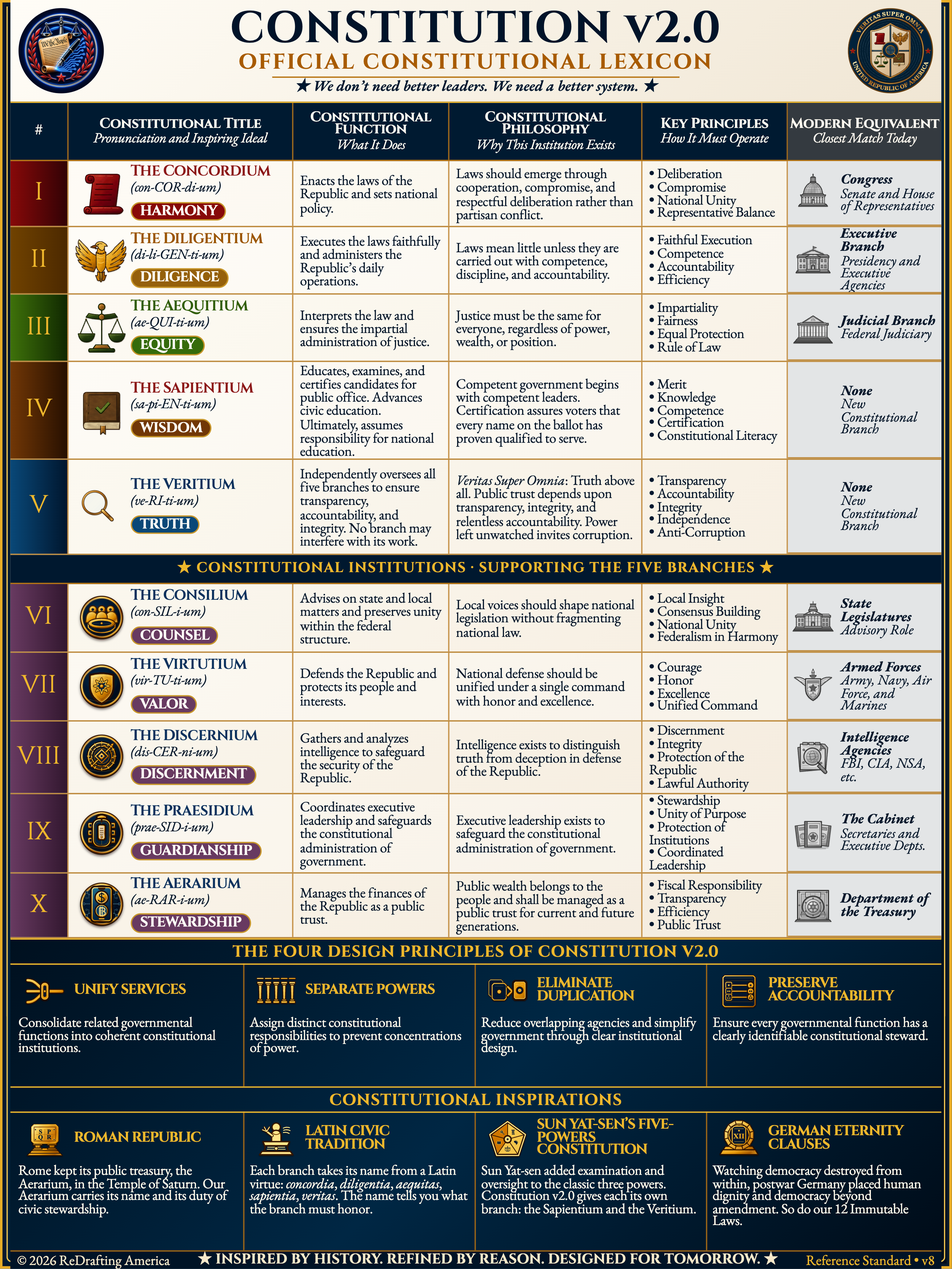
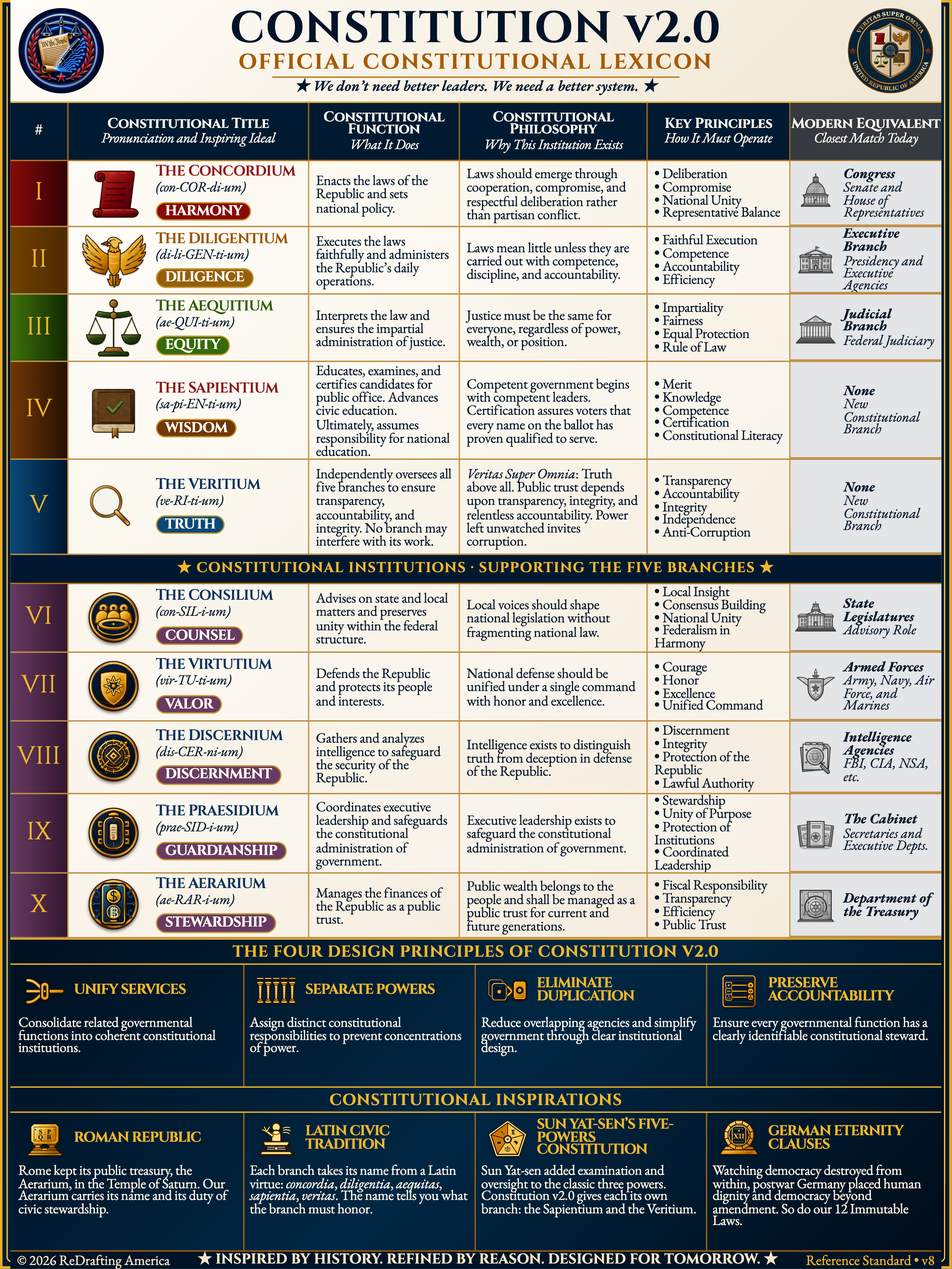
Correct frameless Constitutional Lexicon artwork

diff --git a/index.html b/index.html
@@ -640,7 +640,7 @@
       <div class="split reverse lexicon-feature">
         <div class="preview-card">
           <button class="lexicon-open" id="lexicon-open" type="button" aria-haspopup="dialog" aria-controls="lexicon-dialog" aria-label="Enlarge the Constitutional Lexicon">
-            <img src="assets/images/constitution-v2-lexicon-portrait.png?v=20260924-4" width="1500" height="2000" alt="Portrait edition of the Redrafting America Constitution v2.0 Official Constitutional Lexicon, listing ten constitutional institutions with their functions and principles" loading="lazy" />
+            <img src="assets/images/constitution-v2-lexicon-portrait.png?v=20260924-5" width="1500" height="2000" alt="Portrait edition of the Redrafting America Constitution v2.0 Official Constitutional Lexicon, listing ten constitutional institutions with their functions and principles" loading="lazy" />
           </button>
         </div>
         <div>
@@ -658,8 +658,8 @@
 
   <dialog class="seal-dialog" id="lexicon-dialog" aria-label="Constitutional Lexicon full-size viewer">
     <button class="seal-dialog-close" id="lexicon-dialog-close" type="button" aria-label="Close full-size Constitutional Lexicon">&times;</button>
-    <img src="assets/images/constitution-v2-lexicon-portrait-4k.png?v=20260924-4" width="2618" height="3491" alt="Full-size portrait edition of the Redrafting America Constitution v2.0 Official Constitutional Lexicon" />
-    <a class="seal-dialog-original" href="assets/images/constitution-v2-lexicon-portrait-4k.png?v=20260924-4" target="_blank" rel="noopener">Open 2618-by-3491 image</a>
+    <img src="assets/images/constitution-v2-lexicon-portrait-4k.png?v=20260924-5" width="2618" height="3491" alt="Full-size portrait edition of the Redrafting America Constitution v2.0 Official Constitutional Lexicon" />
+    <a class="seal-dialog-original" href="assets/images/constitution-v2-lexicon-portrait-4k.png?v=20260924-5" target="_blank" rel="noopener">Open 2618-by-3491 image</a>
   </dialog>
 
   <!-- ================= CITIZEN PORTAL ================= -->
